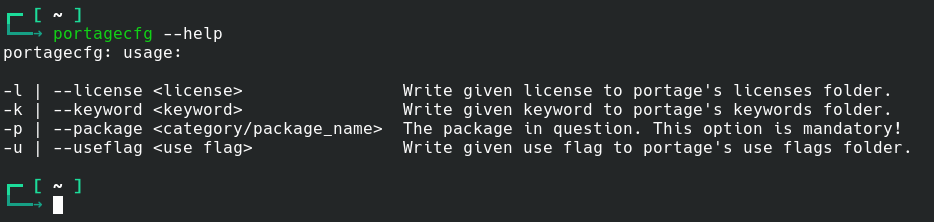
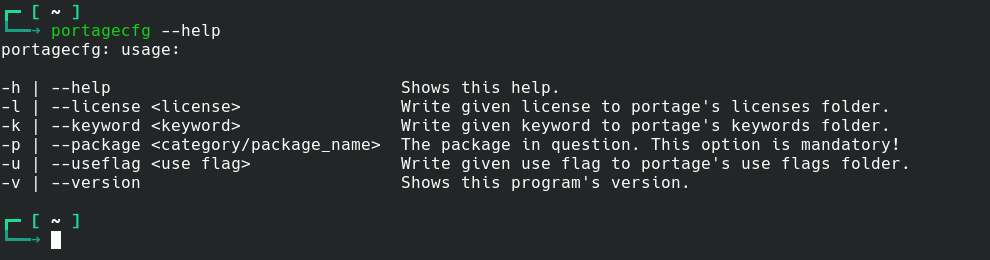
Version 1.0
* Project splitted into 3 files to have everything sorted in that way.
* Added --help, and --version to the help page.

diff --git a/portagecfg.cpp b/portagecfg.cpp
@@ -1,90 +1,18 @@
+#include "portagecfg.hpp"
+#include "version.hpp"
+
 #include <iostream>
 #include <fstream>
-#include <string>
-#include <vector>
-
-#include <getopt.h>
-#include <unistd.h>
-
-enum CONFIG {
-	LICENSE, KEYWORD, USEFLAG
-};
-
-enum ERROR_CODES {
-	SUCCESS = 0,
-	NOT_ENOUGH_ARGS,
-	NOT_ENOUGH_PERMISSIONS,
-	PACKAGE_NOT_PROVIDED
-};
-
-void usage(const std::string& name);
-bool writeConfig(const std::string& package, const std::vector<std::string>& value, CONFIG cfg);
-
-int main(int argc, char* argv[])
-{
-	if (argc == 1) {
-		usage(argv[0]);
-		return ERROR_CODES::NOT_ENOUGH_ARGS;
-	}
-
-	const char* const short_options { "l:k:p:u:" };
-	const struct option long_options[] = {
-		{ "help",	no_argument,		nullptr,	'h' },
-		{ "license",	required_argument,	nullptr,	'l' },
-		{ "keyword",	required_argument,	nullptr,	'k' },
-		{ "package",	required_argument,	nullptr,	'p' },
-		{ "useflag",	required_argument,	nullptr,	'u' },
-		{ nullptr }
-	};
-
-	std::vector<std::string> licenses {};
-	std::vector<std::string> keywords {};
-	std::string package {};
-	std::vector<std::string> useflags {};
-
-	int opt {};
-	while ((opt = getopt_long(argc, argv, short_options, long_options, nullptr)) != -1) {
-		switch (opt) {
-		case 'h':
-			usage(argv[0]);
-			return ERROR_CODES::SUCCESS;
-		case 'l':
-			licenses.push_back(std::string(optarg));
-			break;
-		case 'k':
-			keywords.push_back(std::string(optarg));
-			break;
-		case 'p':
-			package = std::string(optarg);
-			break;
-		case 'u':
-			useflags.push_back(std::string(optarg));
-			break;
-		default:
-			std::cerr << "Unknown option." << std::endl;
-		}
-	}
-
-	if (geteuid() != 0) {
-		std::cerr << "No enough rights, you must run me as root.\n";
-		std::clog << "What I'm going to do is to write in portage's folder,\n"
-			"and that directory belongs to root, so I need rights to write in them." << std::endl;
-		return ERROR_CODES::NOT_ENOUGH_PERMISSIONS;
-	}
-
-	writeConfig(package, licenses, CONFIG::LICENSE);
-	writeConfig(package, keywords, CONFIG::KEYWORD);
-	writeConfig(package, useflags, CONFIG::USEFLAG);
-
-}
 
 void usage(const std::string& name)
 {
 	std::cout << name << ": usage:\n" << std::endl;
+	std::cout << "-h | --help" << "\t\t\t\t" << "Shows this help.\n";
 	std::cout << "-l | --license <license>" << "\t\t" << "Write given license to portage's licenses folder.\n";
 	std::cout << "-k | --keyword <keyword>" << "\t\t" << "Write given keyword to portage's keywords folder.\n";
 	std::cout << "-p | --package <category/package_name>" << '\t' << "The package in question. This option is mandatory!\n";
 	std::cout << "-u | --useflag <use flag>" << "\t\t" << "Write given use flag to portage's use flags folder.\n";
+	std::cout << "-v | --version" << "\t\t\t\t" << "Shows this program's version." << std::endl;
 }
 
 bool writeConfig(const std::string& package,
@@ -127,4 +55,9 @@ bool writeConfig(const std::string& package,
 	file.flush();
 
 	return true;
+}
+
+void version(const std::string& name)
+{
+	std::cout << name << " version " << VERSION << std::endl;
 }

diff --git a/main.cpp b/main.cpp
@@ -1,0 +1,74 @@
+#include <iostream>
+#include <string>
+#include <vector>
+
+#include <getopt.h>
+#include <unistd.h>
+
+#include "portagecfg.hpp"
+
+int main(int argc, char* argv[])
+{
+	auto name { std::string(argv[0]) };
+	if (name.find('/') != std::string::npos)
+		name = name.substr(name.rfind('/') + 1, name.size());
+
+	if (argc == 1) {
+		usage(name);
+		return ERROR_CODES::NOT_ENOUGH_ARGS;
+	}
+
+	const char* const short_options { "hl:k:p:u:v" };
+	const struct option long_options[] = {
+		{ "help",	no_argument,		nullptr,	'h' },
+		{ "license",	required_argument,	nullptr,	'l' },
+		{ "keyword",	required_argument,	nullptr,	'k' },
+		{ "package",	required_argument,	nullptr,	'p' },
+		{ "useflag",	required_argument,	nullptr,	'u' },
+		{ "version",	no_argument,		nullptr,	'v' },
+		{ nullptr }
+	};
+
+	std::vector<std::string> licenses {};
+	std::vector<std::string> keywords {};
+	std::string package {};
+	std::vector<std::string> useflags {};
+
+	int opt {};
+	while ((opt = getopt_long(argc, argv, short_options, long_options, nullptr)) != -1) {
+		switch (opt) {
+		case 'h':
+			usage(name);
+			return ERROR_CODES::SUCCESS;
+		case 'l':
+			licenses.push_back(std::string(optarg));
+			break;
+		case 'k':
+			keywords.push_back(std::string(optarg));
+			break;
+		case 'p':
+			package = std::string(optarg);
+			break;
+		case 'u':
+			useflags.push_back(std::string(optarg));
+			break;
+		case 'v':
+			version(name);
+			return ERROR_CODES::SUCCESS;
+		default:
+			std::cerr << "Unknown option." << std::endl;
+		}
+	}
+
+	if (geteuid() != 0) {
+		std::cerr << "No enough rights, you must run me as root.\n";
+		std::clog << "What I'm going to do is to write in portage's folder,\n"
+			"and that directory belongs to root, so I need rights to write in them." << std::endl;
+		return ERROR_CODES::NOT_ENOUGH_PERMISSIONS;
+	}
+
+	writeConfig(package, licenses, CONFIG::LICENSE);
+	writeConfig(package, keywords, CONFIG::KEYWORD);
+	writeConfig(package, useflags, CONFIG::USEFLAG);
+}
+

diff --git a/portagecfg.hpp b/portagecfg.hpp
@@ -1,0 +1,22 @@
+#ifndef PORTAGECFG_HPP
+#define PORTAGECFG_HPP
+
+#include <string>
+#include <vector>
+
+enum CONFIG {
+	LICENSE, KEYWORD, USEFLAG
+};
+
+enum ERROR_CODES {
+	SUCCESS = 0,
+	NOT_ENOUGH_ARGS,
+	NOT_ENOUGH_PERMISSIONS,
+	PACKAGE_NOT_PROVIDED
+};
+
+void usage(const std::string& name);
+bool writeConfig(const std::string& package, const std::vector<std::string>& values, CONFIG cfg);
+void version(const std::string& name);
+
+#endif // PORTAGECFG_HPP

diff --git a/version.hpp b/version.hpp
@@ -1,0 +1,6 @@
+#ifndef VERSION_HPP
+#define VERSION_HPP
+
+#define VERSION "1.0"
+
+#endif // VERSION_HPP
